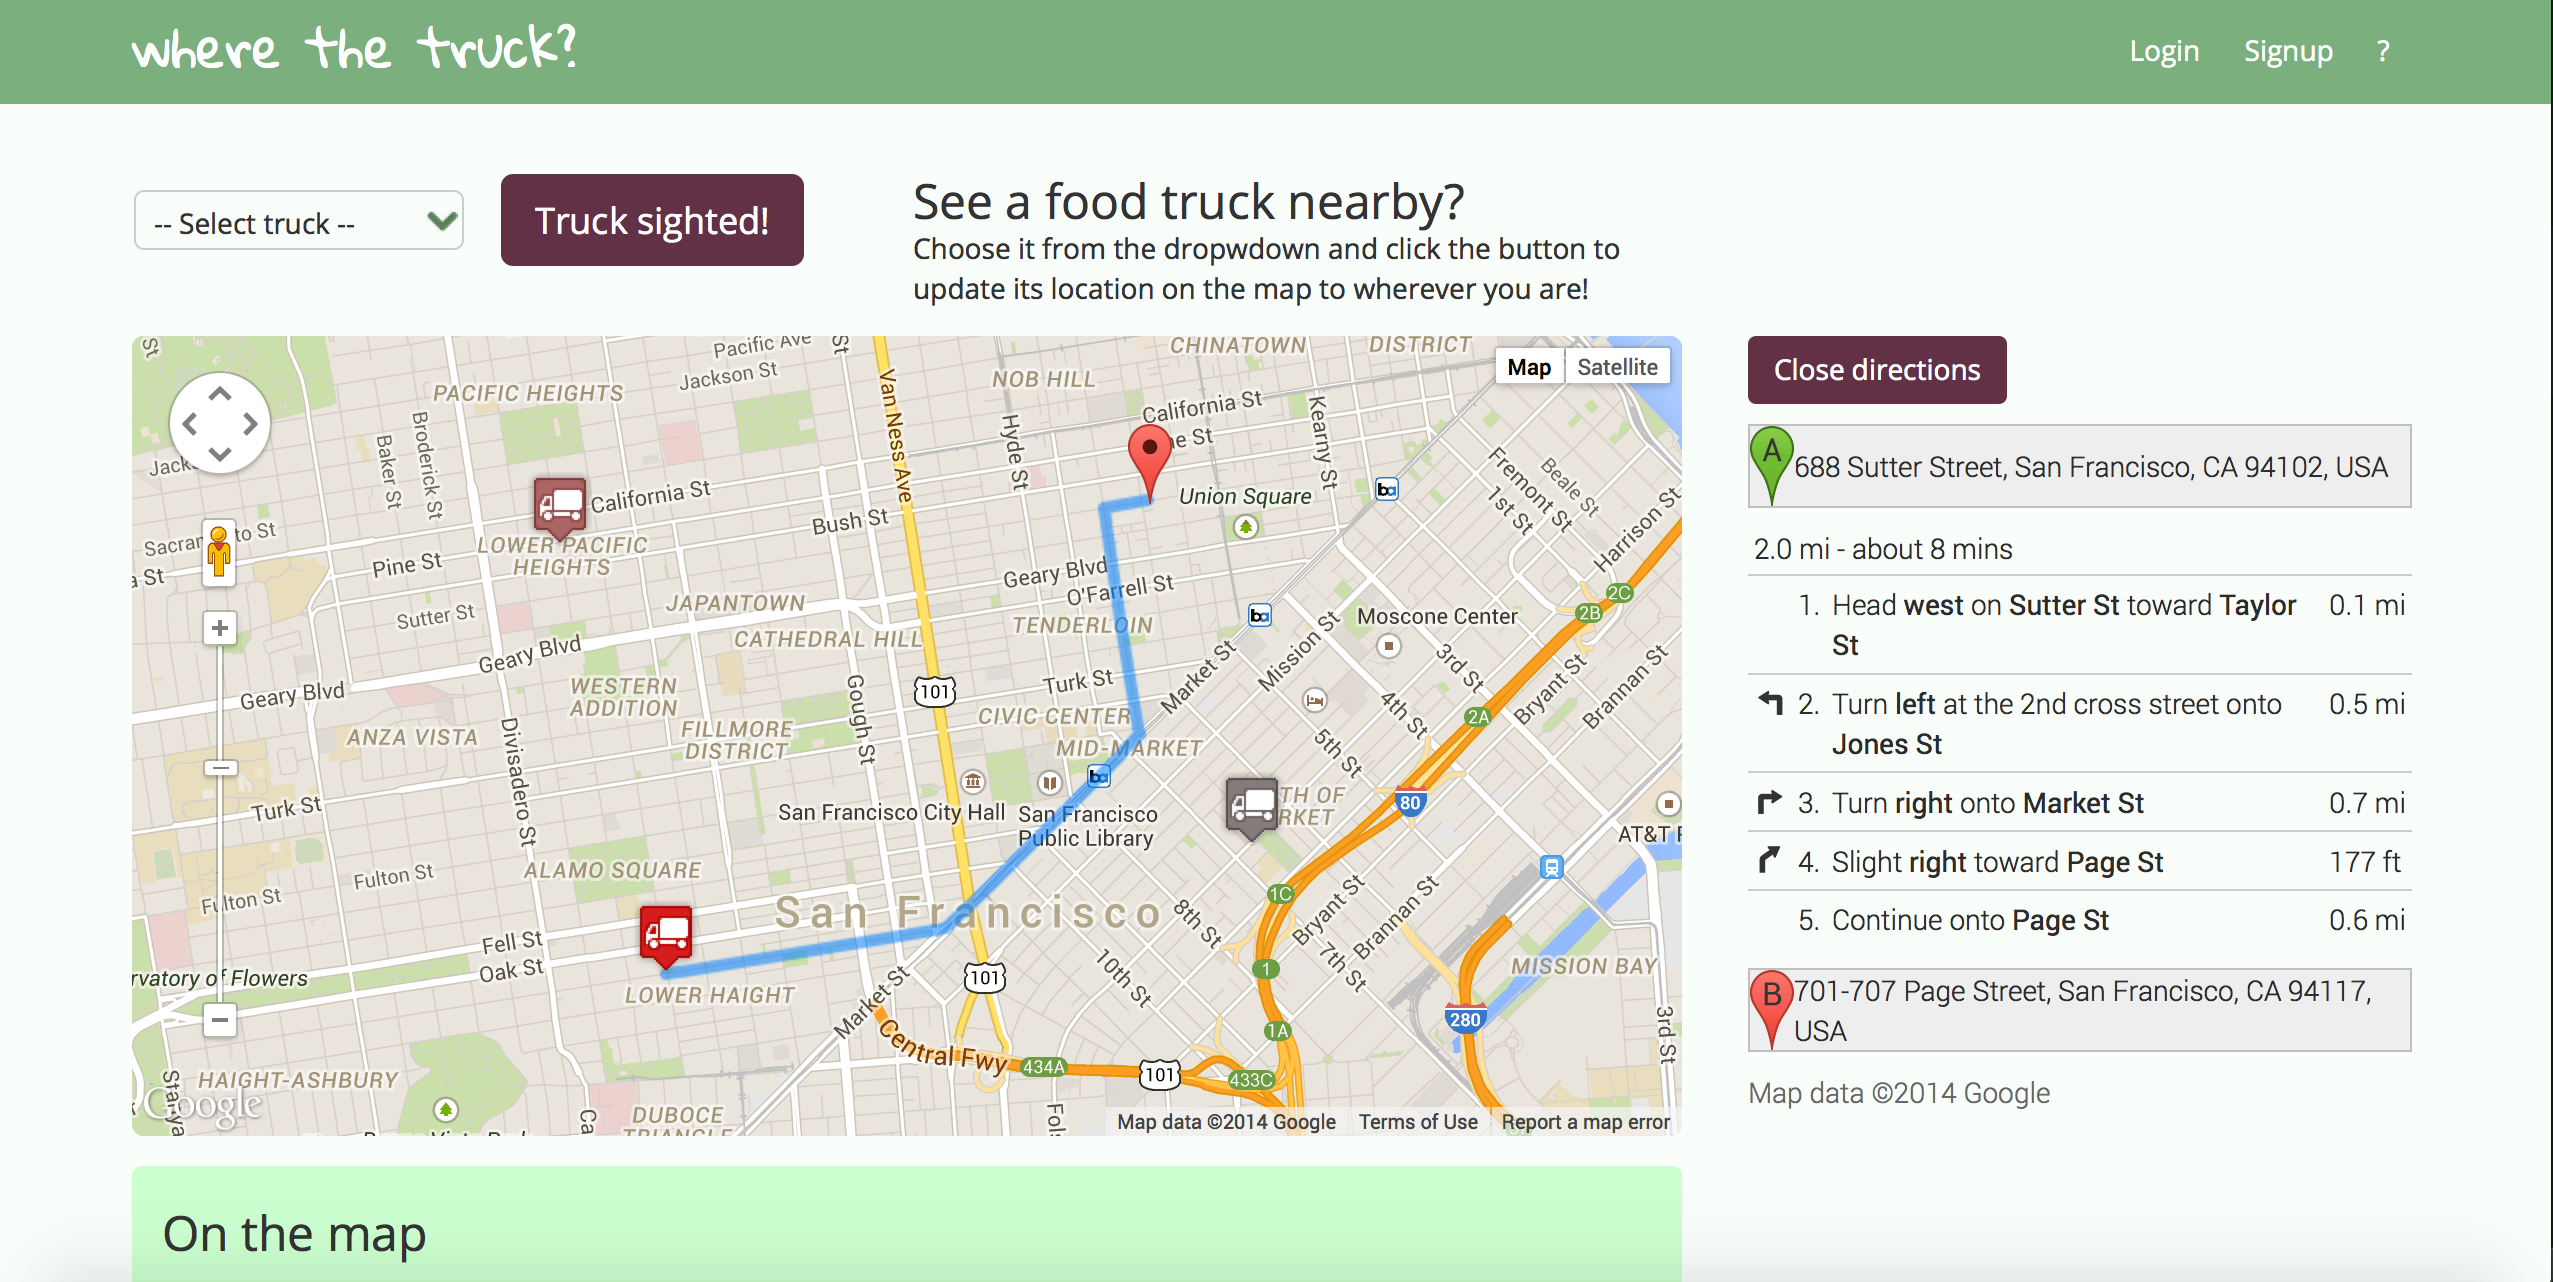
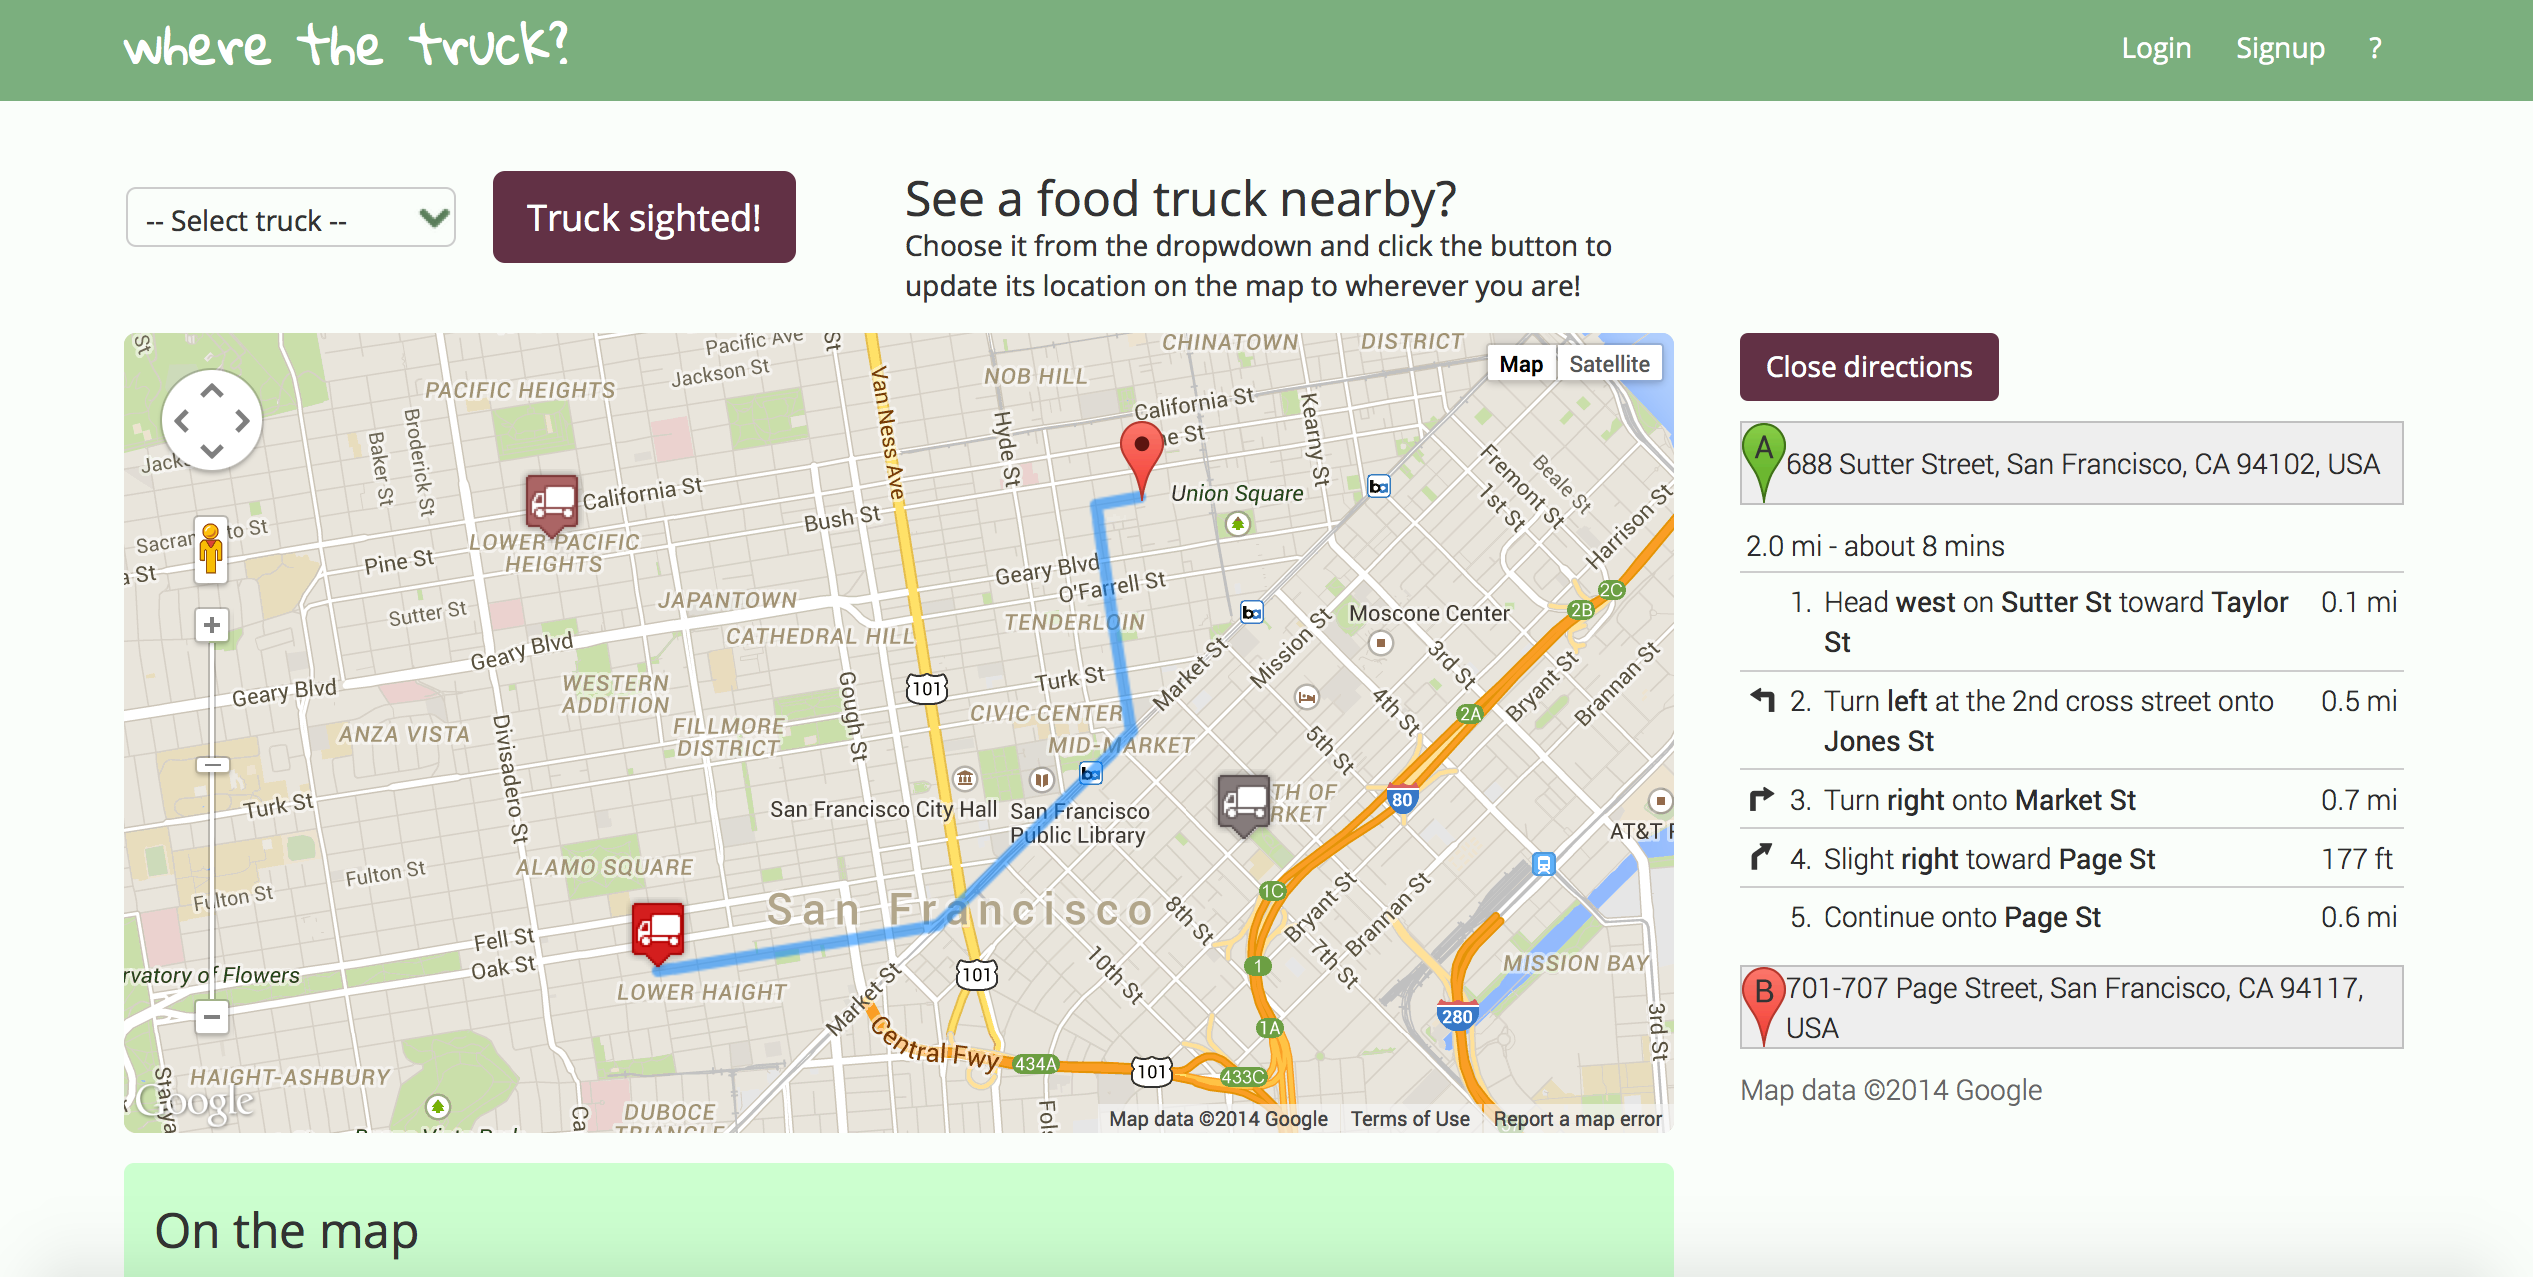
Updated images

diff --git a/README.md b/README.md
@@ -130,7 +130,7 @@ Screenshots
 ######Responsively displaying map and written directions
 <img src="screenshots/directions.png" width="100%" title="display directions" alt="display directions">
 <p align="center">
-	<img src="screenshots/directions.png" width="75%" title="responsive directions container" alt="responsive directions container">
+	<img src="screenshots/responsiveDirections.png" width="75%" title="responsive directions container" alt="responsive directions container">
 </p>
 
 ####Responsive design
@@ -162,7 +162,9 @@ Screenshots
 
 ######Voting popovers telling users how to vote on location accuracy for updates
 Pictured here for a user who is not logged in
-<img src="screenshots/votingPopover.png" width="100%" alt="voting instructions popover" title="voting instruction popovers">
+<p align="center">
+	<img src="screenshots/votingPopover.png" width="50%" alt="voting instructions popover" title="voting instruction popovers">
+</p>
 
 
 Forking?
